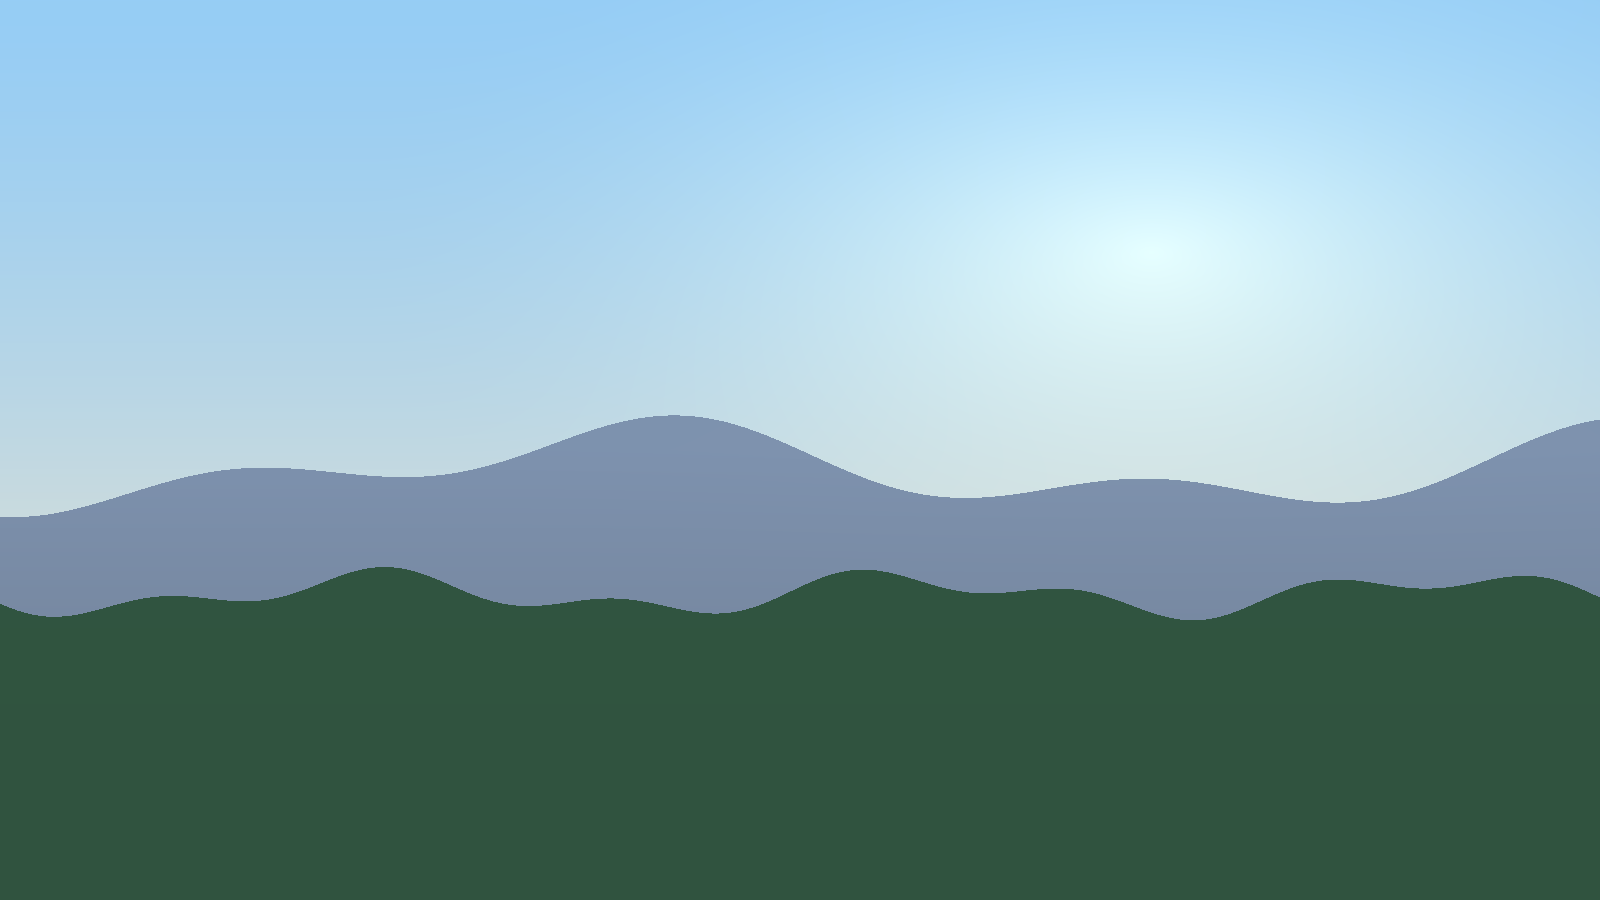
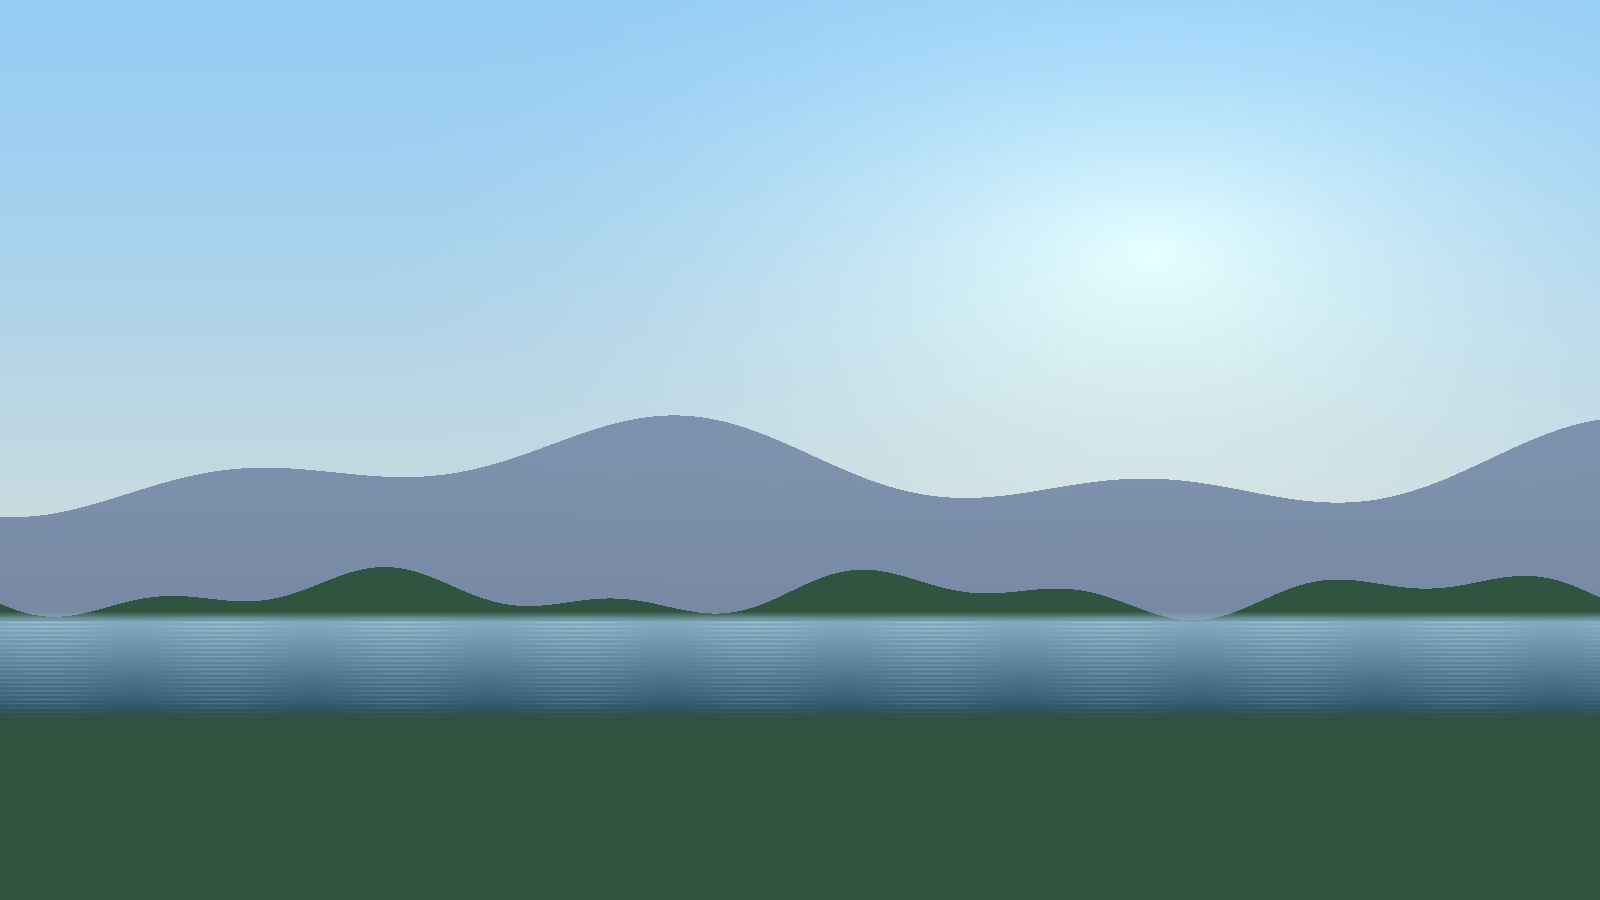
feat(scene-runtime,web): add lake layer and per-layer effect planning
- sample scene gains a water/lake layer (generator + scene.json, 7 layers) so
  Soft Nature water ripples can be demonstrated
- scene-runtime: planLayerEffects() maps layer tags/role/importance to a material
  kind (basic|wind|water) and wind stiffness, keeping preset branching out of the
  render components; subject is stiffer than foreground by construction

Changed region(s): [[0.0, 0.6844, 1.0, 0.8089]]

diff --git a/packages/scene-runtime/src/effects/layer-effects.test.ts b/packages/scene-runtime/src/effects/layer-effects.test.ts
@@ -1,0 +1,98 @@
+import { getPreset } from '@interactive-photo/presets';
+import type { SceneLayer } from '@interactive-photo/scene-schema';
+import { describe, expect, it } from 'vitest';
+
+import { planLayerEffects } from './layer-effects';
+
+function layer(over: Partial<SceneLayer> = {}): SceneLayer {
+  return {
+    id: 'l',
+    name: 'L',
+    semanticLabel: 'l',
+    role: 'midground',
+    assetUrl: 'a.png',
+    bounds: { x: 0, y: 0, width: 1, height: 1 },
+    anchor: { x: 0.5, y: 0.5 },
+    depth: 0.5,
+    depthVariance: 0,
+    baseScale: 1,
+    baseRotation: 0,
+    baseOpacity: 1,
+    movement: {
+      enabled: true,
+      maxOffsetX: 0.02,
+      maxOffsetY: 0.02,
+      maxOffsetZ: 0,
+      maxRotation: 0,
+      parallaxStrength: 0.2,
+      dragEnabled: false,
+      returnMode: 'spring',
+    },
+    interactionTags: [],
+    materialTags: [],
+    audioSensitivity: { bass: 0, lowMid: 0, highMid: 0, treble: 0, beat: 0, loudness: 0 },
+    importance: 0.5,
+    locked: false,
+    revealBudget: { maxOffsetX: 0.02, maxOffsetY: 0.02, confidence: 1 },
+    provenance: { visiblePixels: 'original', sourceImageHash: 'h' },
+    ...over,
+  };
+}
+
+const softNature = getPreset('soft-nature');
+const urban = getPreset('urban');
+
+describe('planLayerEffects', () => {
+  it('uses the wind material for wind-tagged layers under a wind pointer', () => {
+    const plan = planLayerEffects(layer({ interactionTags: ['wind', 'sway'] }), softNature);
+    expect(plan.material).toBe('wind');
+  });
+
+  it('does not apply wind under a non-wind preset', () => {
+    const plan = planLayerEffects(layer({ interactionTags: ['wind'] }), urban);
+    expect(plan.material).toBe('basic');
+  });
+
+  it('uses the water material for water-tagged layers', () => {
+    const plan = planLayerEffects(
+      layer({ materialTags: ['water'], interactionTags: ['ripple', 'water'] }),
+      softNature,
+    );
+    expect(plan.material).toBe('water');
+    expect(plan.rippleEnabled).toBe(true);
+  });
+
+  it('water wins over wind when a layer is tagged both', () => {
+    const plan = planLayerEffects(
+      layer({ materialTags: ['water'], interactionTags: ['wind'] }),
+      softNature,
+    );
+    expect(plan.material).toBe('water');
+  });
+
+  it('leaves untagged layers (sky, fog) on the basic material', () => {
+    expect(planLayerEffects(layer(), softNature).material).toBe('basic');
+    expect(planLayerEffects(layer({ interactionTags: ['drift'] }), softNature).material).toBe(
+      'basic',
+    );
+  });
+
+  it('makes the primary subject stiffer than foreground decoration', () => {
+    const subject = planLayerEffects(
+      layer({ role: 'primary-subject', importance: 1, interactionTags: ['sway'] }),
+      softNature,
+    );
+    const foreground = planLayerEffects(
+      layer({ role: 'foreground', importance: 0.5, interactionTags: ['wind'] }),
+      softNature,
+    );
+    expect(subject.windStiffness).toBeGreaterThan(foreground.windStiffness);
+    expect(subject.windStiffness).toBeGreaterThanOrEqual(1);
+  });
+
+  it('requires the ripple tag for ripples, not just a water material', () => {
+    const plan = planLayerEffects(layer({ materialTags: ['water'] }), softNature);
+    expect(plan.material).toBe('water');
+    expect(plan.rippleEnabled).toBe(false);
+  });
+});

diff --git a/packages/scene-runtime/src/effects/layer-effects.ts b/packages/scene-runtime/src/effects/layer-effects.ts
@@ -1,0 +1,46 @@
+import type { SceneLayer, ScenePreset } from '@interactive-photo/scene-schema';
+import { clamp } from '@interactive-photo/shared';
+
+/** Which material a layer should be drawn with. */
+export type LayerMaterialKind = 'basic' | 'wind' | 'water';
+
+export interface LayerEffectPlan {
+  material: LayerMaterialKind;
+  /**
+   * Bend resistance for the wind shader (>= 1). Derived from the layer's
+   * `importance` so the emotional centre of the photo stays steady while
+   * decorative foreground foliage moves freely — a core product rule.
+   */
+  windStiffness: number;
+  /** Whether pointer/beat ripples may be spawned on this layer. */
+  rippleEnabled: boolean;
+}
+
+const WIND_TAGS = ['wind', 'sway'];
+
+/**
+ * Decide how a layer participates in the effect system, from its authored tags,
+ * role and importance plus the active preset. Pure so it can be unit tested and
+ * so no preset-specific branching leaks into the render components.
+ *
+ * Wind only applies under a wind-style pointer (Soft Nature); water ripples only
+ * apply to layers explicitly tagged as water.
+ */
+export function planLayerEffects(layer: SceneLayer, preset: ScenePreset): LayerEffectPlan {
+  const isWater = layer.materialTags.includes('water');
+  const wantsWind = layer.interactionTags.some((t) => WIND_TAGS.includes(t));
+  const windPointer = preset.pointer.mode === 'wind';
+
+  let material: LayerMaterialKind = 'basic';
+  if (isWater) material = 'water';
+  else if (wantsWind && windPointer) material = 'wind';
+
+  // importance 0 → very flexible (1), importance 1 → very stiff (5).
+  const windStiffness = 1 + clamp(layer.importance, 0, 1) * 4;
+
+  return {
+    material,
+    windStiffness,
+    rippleEnabled: isWater && layer.interactionTags.includes('ripple'),
+  };
+}

diff --git a/packages/scene-runtime/src/index.ts b/packages/scene-runtime/src/index.ts
@@ -13,6 +13,8 @@ export { FrameReporter } from './components/FrameReporter';
 export { RuntimeProvider, useRuntime } from './context';
 export type { RuntimeContextValue, AudioFrameAccessor } from './context';
 export { evaluateBinding, applyAudioBindings } from './audio/bindings';
+export { planLayerEffects } from './effects/layer-effects';
+export type { LayerEffectPlan, LayerMaterialKind } from './effects/layer-effects';
 export { useRuntimeStore } from './store';
 export type { RuntimeState, DebugSnapshot } from './store';
 export { SceneEventBus } from './events/eventBus';

diff --git a/scripts/gen-sample-scene.py b/scripts/gen-sample-scene.py
@@ -109,6 +109,29 @@ def make_subject_tree() -> np.ndarray:
     return arr
 
 
+def make_lake() -> np.ndarray:
+    """A calm lake band in the midground — the surface water ripples act on."""
+    arr = _blank()
+    top, bottom = 0.68, 0.80
+    band = (YY >= top) & (YY <= bottom)  # (H,1)
+    # Depth gradient: lighter (sky reflection) at the far edge, deeper toward viewer.
+    t = np.clip((YY - top) / (bottom - top), 0, 1)  # (H,1)
+    far = (150.0, 190.0, 210.0)
+    near = (46.0, 84.0, 110.0)
+    for c in range(3):
+        arr[..., c] = far[c] * (1 - t) + near[c] * t
+    # Horizontal reflection streaks (still water reads as banded highlights).
+    streak = (np.sin(YY * math.pi * 420) * 0.5 + 0.5) ** 3  # (H,1)
+    ripple_x = np.sin(XX * math.pi * 18) * 0.5 + 0.5  # (1,W)
+    for c in range(3):
+        arr[..., c] += streak * ripple_x * 26 - 8
+    # Soft edges so it blends into the shoreline instead of a hard rectangle.
+    edge_top = np.clip((YY - top) / 0.012, 0, 1)
+    edge_bottom = np.clip((bottom - YY) / 0.02, 0, 1)
+    arr[..., 3] = np.where(band, 255 * np.minimum(edge_top, edge_bottom), 0)
+    return arr
+
+
 def make_grass() -> np.ndarray:
     """Foreground grass band along the bottom with blade texture and a soft top edge."""
     arr = _blank()
@@ -153,6 +176,7 @@ def main() -> None:
     sky = make_sky()
     mountains = make_mountains()
     trees = make_trees()
+    lake = make_lake()
     subject = make_subject_tree()
     grass = make_grass()
     fog = make_fog()
@@ -160,14 +184,15 @@ def main() -> None:
     _save(sky, os.path.join(OUT, "layers", "sky.png"))
     _save(mountains, os.path.join(OUT, "layers", "mountains.png"))
     _save(trees, os.path.join(OUT, "layers", "trees.png"))
+    _save(lake, os.path.join(OUT, "layers", "lake.png"))
     _save(fog, os.path.join(OUT, "layers", "fog.png"))
     _save(subject, os.path.join(OUT, "layers", "subject-tree.png"))
     _save(grass, os.path.join(OUT, "layers", "grass.png"))
 
-    background = composite([sky, mountains, trees])
+    background = composite([sky, mountains, trees, lake])
     _save(background, os.path.join(OUT, "background.png"))
 
-    full = composite([sky, mountains, trees, fog, subject, grass])
+    full = composite([sky, mountains, trees, lake, fog, subject, grass])
     _save(full, os.path.join(OUT, "original", "normalized.png"))
 
     preview = Image.fromarray(np.clip(full, 0, 255).astype(np.uint8), "RGBA").resize((480, 270))
